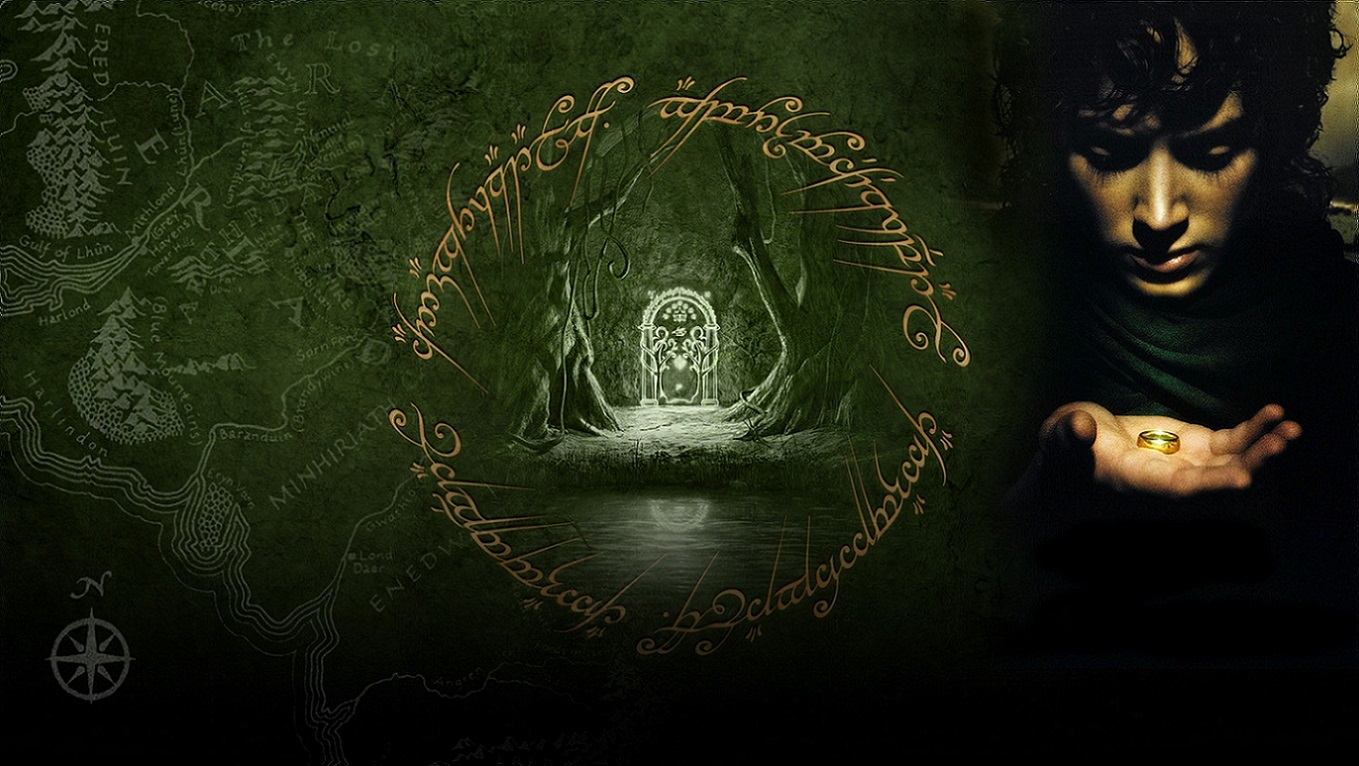
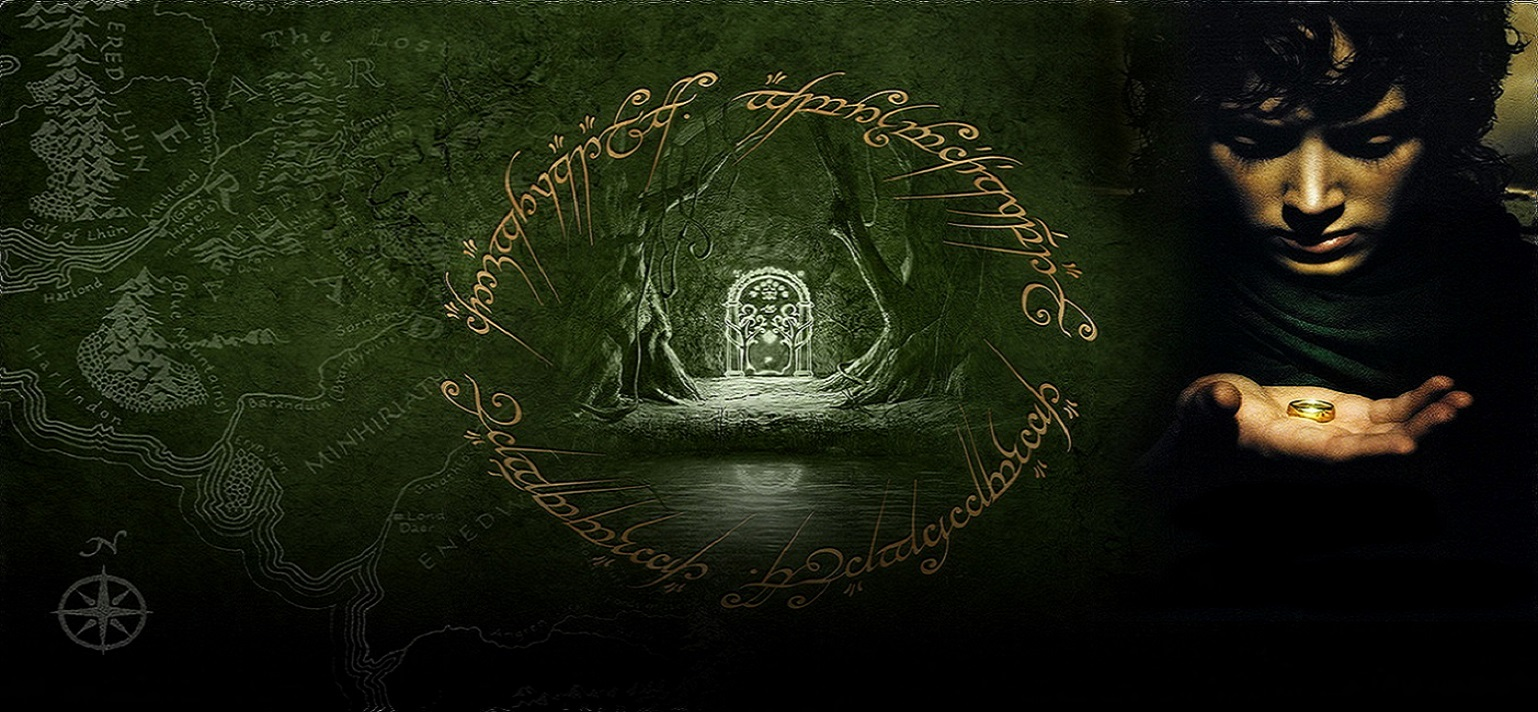
Landing Page

diff --git a/index.html b/index.html
@@ -3,55 +3,67 @@
     <head>
         <meta name="viewport" content="width=device-width, initial-scale=1.0">
         <title>The Lord of The Ring</title>
+        <link rel="stylesheet" href="https://cdn.jsdelivr.net/npm/bootstrap@4.5.3/dist/css/bootstrap.min.css" integrity="sha384-TX8t27EcRE3e/ihU7zmQxVncDAy5uIKz4rEkgIXeMed4M0jlfIDPvg6uqKI2xXr2" crossorigin="anonymous">
         <link rel="stylesheet" href="./style/index.css">
+
     </head>
     <body>
-        <nav>
-            <div class="floatRight" >
-                <div class="floatLeft"  style="width: 100px;">
-                    <a href="/index.html" >Home</a>
+        <div class="container-fluid" >
+            <div class="row">
+                <div class="col-12 d-flex justify-content-end">
+                    <a href="#" class="mr-5">Home</a>
+                    <a href="./html/info.html" class="mr-3">Info</a>
                 </div>
-                <div class="floatLeft" style="width: 100px;">
-                    <a href="./html/info.html" >Info</a>
-                </div> 
             </div>
-        </nav>
-        <div id="mainDiv" class="floatRight">
-            <h1>THE LORD OF THE RINGS</h1> 
-            <div class="imgDiv floatLeft" >
-                <img src="./photos/index2.jpg" alt="The lord Of the ring">
-            <div class="imgDivTwo" >
-                <img src="./photos/index.jpg" alt="The lord Of the ring">
-            </div> 
+            <div class="row">
+                <div class="col-12" >
+                    <div class="row">
+                        <div class="col-12">
+                            <h1>THE LORD OF THE RINGS</h1> 
+                        </div>
+                    </div>
+                        <div class="container-fluid">
+                            <div class="row">
+                                <div class="col-12 ">
+                                    <div class="row pt-3">
+                                        <div class="col-12 col-md-2">
+                                            <img src="./photos/index2.jpg" class="img-fluid"  alt="The lord Of the ring">
+                                            <img src="./photos/index.jpg" alt="The lord Of the ring">
+                                        </div>
+                                        <div class="col-12 col-md-8">
+                                            <div class= "paraDiv">
+                                                <p id="para">
+                                                    The Lord of the Rings, fantasy novel by J.R.R. Tolkien initially published in 
+                                                    three parts as The Fellowship of the Ring The Two Towers and The Return of the King. The novel, set in the Third Age of Middle Earth, 
+                                                    formed a sequel to Tolkien’s The Hobbit and was succeeded by his posthumous The 
+                                                    Silmarillion . <br> <br>
+                                    
+                                                    The Lord of the Rings is the saga of a group of sometimes reluctant heroes who set forth to save their world from consummate evil. 
+                                                    Its many worlds and creatures were drawn from Tolkien’s extensive knowledge of philology and folklore.
+                                                    An ancient Ring thought lost for centuries has been found, and through a strange twist of fate has been given to a small Hobbit named Frodo.
+                                                    At 33, the age of adulthood among hobbits, Frodo Baggins receives a magic Ring of Invisibility from his uncle Bilbo.
+                                                    Frodo, a Christlike figure, learns that the ring has the power to control the entire world and, he discovers, to corrupt its owner.
+                                                    When Gandalf discovers the Ring is in fact the One Ring of the Dark Lord Sauron, Frodo must make an epic quest to the Cracks of Doom in order to destroy it.
+                                                    However, he does not go alone.
+                                                    He is joined by Gandalf, Legolas the elf, Gimli the Dwarf, Aragorn, Boromir, and his three Hobbit friends Merry, Pippin, and Samwise. 
+                                                    Through mountains, snow, darkness, forests, rivers and plains, facing evil and danger at every corner the Fellowship of the Ring must go.They are opposed on their harrowing mission by the evil Sauron and his Black Riders .
+                                                    Their quest to destroy the One Ring is the only hope for the end of the Dark Lords reign. 
+                                                    The Lord of the Rings, together with The Hobbit, is considered by many to be the start of the genre known as high fantasy,and these works have had an enormous influence on that genre as a whole.  
+                                               
+                                                </p>
+                                            </div>
+                                        </div>
+                                        <div class="col-12 col-md-2">
+                                            <img src="./photos/index3.jpg" alt="The lord Of the ring">
+                                            <img src="./photos/index4.jpg" alt="The lord Of the ring">
+                                        </div>
+                                    </div>
+                                </div>
+                            </div>    
+                        </div>        
+                    </div>
+                </div>    
+            </div>
         </div>
-            <div class= "paraDiv floatLeft" style=" width: 830px;">
-            <p id="para">
-                The Lord of the Rings, fantasy novel by J.R.R. Tolkien initially published in 
-                three parts as The Fellowship of the Ring The Two Towers and The Return of the King. The novel, set in the Third Age of Middle Earth, 
-                formed a sequel to Tolkien’s The Hobbit and was succeeded by his posthumous The 
-                Silmarillion . <br> <br>
-
-                The Lord of the Rings is the saga of a group of sometimes reluctant heroes who set forth to save their world from consummate evil. 
-                Its many worlds and creatures were drawn from Tolkien’s extensive knowledge of philology and folklore.
-                An ancient Ring thought lost for centuries has been found, and through a strange twist of fate has been given to a small Hobbit named Frodo.
-                At 33, the age of adulthood among hobbits, Frodo Baggins receives a magic Ring of Invisibility from his uncle Bilbo.
-                Frodo, a Christlike figure, learns that the ring has the power to control the entire world and, he discovers, to corrupt its owner.
-                When Gandalf discovers the Ring is in fact the One Ring of the Dark Lord Sauron, Frodo must make an epic quest to the Cracks of Doom in order to destroy it.
-                However, he does not go alone.
-                He is joined by Gandalf, Legolas the elf, Gimli the Dwarf, Aragorn, Boromir, and his three Hobbit friends Merry, Pippin, and Samwise. 
-                Through mountains, snow, darkness, forests, rivers and plains, facing evil and danger at every corner the Fellowship of the Ring must go.They are opposed on their harrowing mission by the evil Sauron and his Black Riders .
-                Their quest to destroy the One Ring is the only hope for the end of the Dark Lords reign. 
-                The Lord of the Rings, together with The Hobbit, is considered by many to be the start of the genre known as high fantasy,and these works have had an enormous influence on that genre as a whole.  
-           
-            </p>
-        </div>
-            <div class="imgDivTwo floatRight style="  padding-top: 10px;">
-                <img src="./photos/index3.jpg" alt="The lord Of the ring">
-            <div class="imgDivTwo">
-                <img src="./photos/index4.jpg" alt="The lord Of the ring">
-            </div> 
-        </div> 
-        </div>
-        
     </body>
 </html>

diff --git a/style/search.css b/style/search.css
@@ -1,0 +1,58 @@
+body {
+  background-image: url(../photos/pages1.jpg);
+  background-repeat: no-repeat;
+  height: 100vh;
+}
+
+#mainDiv {
+  padding: 24% 25% 0% 35%;
+}
+
+label {
+  font-size: 45px;
+  font-weight: bold;
+  padding: 15%;
+  color: silver;
+}
+input {
+  font-size: 35px;
+  border-radius: 10px;
+  padding: 10px;
+  margin-bottom: 25px;
+}
+button {
+  font-size: 40px;
+  margin-left: 27%;
+  border-radius: 80px;
+}
+a {
+  text-decoration: none;
+  font-style: italic;
+  line-height: 70px;
+  font-size: 35px;
+  font-weight: bold;
+  color: rgb(184, 162, 39);
+}
+.floatLeft {
+  float: left;
+}
+.floatRight {
+  float: right;
+}
+#res {
+  position: relative;
+  animation: mymove 2s;
+  text-align: center;
+  animation-iteration-count: 1;
+  animation-timing-function: reverse;
+  width: 100%;
+}
+
+@keyframes mymove {
+  from {
+    right: 300px;
+  }
+  to {
+    right: 1px;
+  }
+}

diff --git a/style/index.css b/style/index.css
@@ -1,12 +1,6 @@
 body {
   background-image: url(../photos/backgroundcolor.jpg);
-  background-attachment: fixed;
-}
-.floatLeft {
-  float: left;
-}
-.floatRight {
-  float: right;
+  width: 100%;
 }
 .imgDiv {
   width: 250px;
@@ -23,6 +17,10 @@ a {
   font-size: 35px;
   font-weight: bold;
   color: gold;
+}
+a:hover {
+  color: gold;
+  text-decoration: none;
 }
 h1 {
   color: blanchedalmond;
@@ -41,8 +39,8 @@ h1 {
 #para {
   text-align: justify;
   font-size: 21px;
-  color: gold;
-  /* font-weight: bold; */
+  color: #ffea00;
+
   padding: 0px 20px 0px 10px;
   line-height: normal;
 }

diff --git a/html/char.html b/html/char.html
@@ -3,7 +3,7 @@
     <head>
         <meta name="viewport" content="width=device-width, initial-scale=1.0">
         <title>The Search Place</title>
-        <link rel="stylesheet" href="../style/char.css">
+        <link rel="stylesheet" href="../style/search.css">
     </head>
     <body>
         <div class="floatRight" >

diff --git a/html/info.html b/html/info.html
@@ -10,7 +10,7 @@
             <div id="navDiv">
             <ul>
                 <li>
-                    <a href="/index.html">Home</a>
+                    <a href="../index.html">Home</a>
                  </li>
                 <li>
                    <a href="./book.html">Book</a>

diff --git a/style/style.css b/style/style.css
@@ -1,5 +1,9 @@
 body {
   background-image: url(../photos/info.jpg);
+  background-repeat: no-repeat;
+  height: auto;
+  padding-bottom: 0px;
+  height: 100vh;
 }
 ul {
   list-style-type: none;
